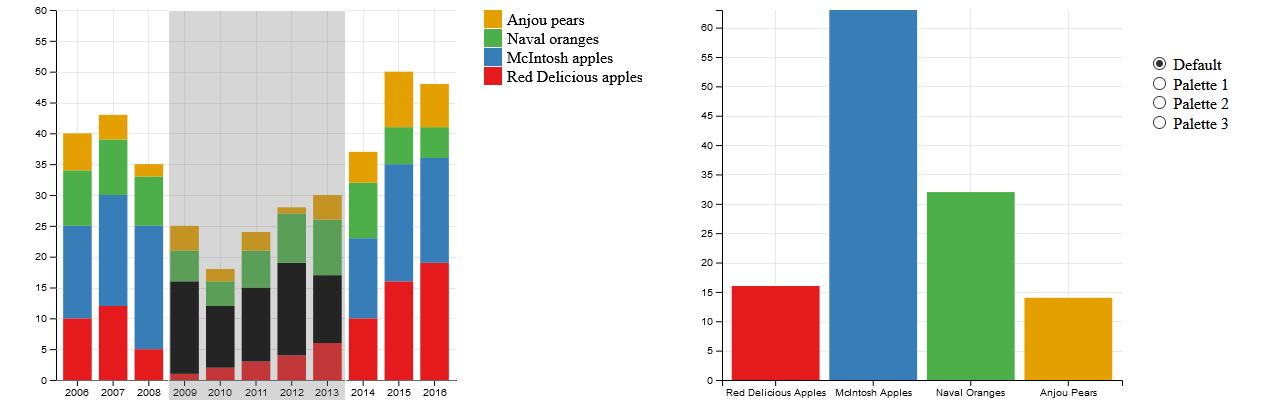
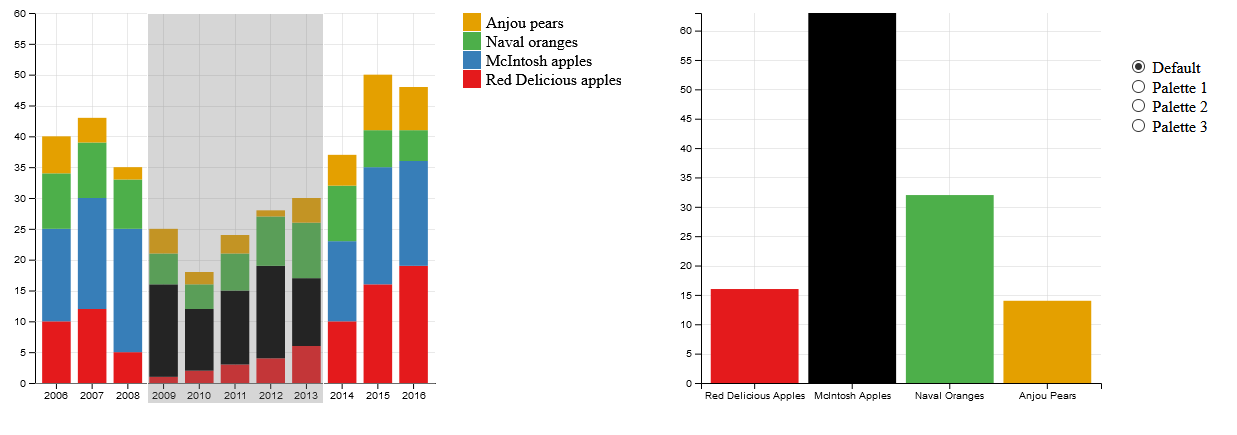
Changed Bar Highlight

diff --git a/index.html b/index.html
@@ -302,22 +302,26 @@
               .attr("y", function(d) { return y(d.value); })
               .attr("height", function(d) { return height - y(d.value); })
               .attr("fill", function(d) { return color(d.key); })
-              .on("mouseover", function(d) {highlightAllBars(d)})
-              .on("mouseleave", function(d) {unhighlightAllBars(d)})
+              .on("mouseover", function(d) {highlightAllBars(d, this)})
+              .on("mouseleave", function(d) {unhighlightAllBars(d, this)})
 
-          function highlightAllBars(d){
+          function highlightAllBars(d, t){
             for(i=0;i<yearsList.length;i++){
               svg.select("#" + d.key + yearsList[i])
                 .attr("fill", function(d) { return "#000000"; })
             }
+            d3.select(t)
+            	.attr("fill", function(d) { return "#000000"; });
           }
 
-          function unhighlightAllBars(d){
+          function unhighlightAllBars(d, t){
             for(i=0;i<yearsList.length;i++){
               svg.select("#" + d.key + yearsList[i])
                 .style("opacity", "1.0")
                 .attr("fill", function(d) { return toString(color(d.key)) })
             }
+            d3.select(t)
+            	.attr("fill", function(d) { return color(d.key) });
           }
 
 

diff --git a/README.md b/README.md
@@ -47,10 +47,11 @@ This also works when a section is brushed. In the picture below, the left chart 
 ## **Technical Achievements**
 
 - I converted the project from using d3 v3 into  using d3 v4.
-- The data in the project was all stored locally as an array of objects called `data`. I took all of the data and put it into the CSV named `data.csv`. 
-- Implemented [d3-interpolate](https://github.com/d3/d3-interpolate) to convert the brush coordinates into the appropriate years the brush covered which I then used to gather the data needed to update the linked bar chart. 
+- The data in the project was all stored in a local variable called `data` as an array of objects. I took all of the data and converted it into a CSV named `data.csv` found in this repo. 
+- I implemented [d3-interpolate](https://github.com/d3/d3-interpolate) to convert the brush coordinates into the appropriate years the brush is covering which is then used to update the linked bar chart on the right.
 
 ### **Design Achievements**
 
 - For the newly added bar chart, the grid pattern dynamically updates to match the number of ticks on the Y axis legend.
 - Besides the default palette, the user has the choice of viewing the charts with three additional palettes. These palettes are taken from the article [Inclusice Color Palettes for the Web](https://medium.com/cafe-pixo/inclusive-color-palettes-for-the-web-bbfe8cf2410e), these palettes are designed to accommodate those with color blindness.  
+- When using the right bar chart to highlight segments of the left stacked bar chart, the corresponding bar on the right chart will also be highlighted to give the user feedback that the bar is being selected.  
